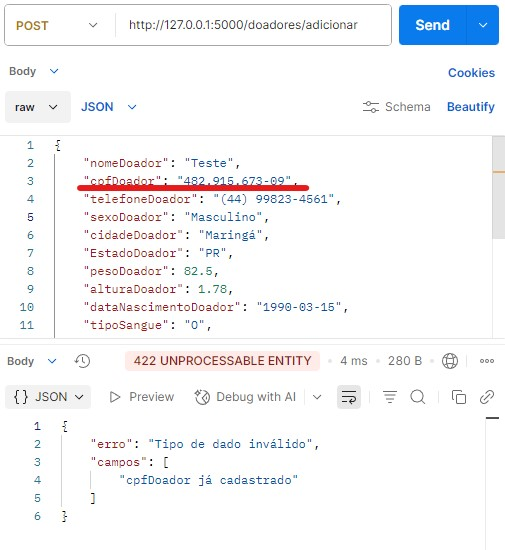
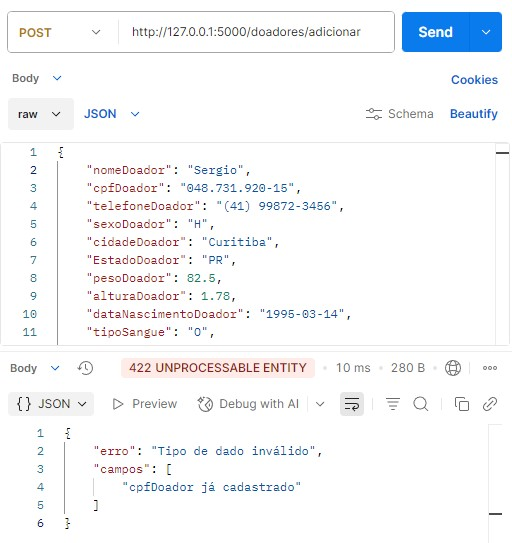
docs: adiciona prints dos testes no postman

diff --git a/raciocinio-algoritmico/docs/prints-semana4.md b/raciocinio-algoritmico/docs/prints-semana4.md
@@ -4,14 +4,54 @@
 
 Alguns prints dos testes realizados no Postman. Não inclui todos os testes para todos os tipos, mas abrange de modo geral o funcionamento do sistema atualmente.
 
-### isinstance() teste
+---
 
-[isinstance() teste](../img/altura-teste.jpg)
+## Rota `/doadores/adicionar`
 
-### CPF repetido teste
+### Regex — nome com números/caracteres especiais
 
-[cpf teste](../img/cpf-repetido.jpg)
+![teste-regex](../img/teste-regex.jpg)
 
-### Regex teste
+### Sexo do doador inválido
 
-[regex teste](../img/regex-nome-teste.jpg)
+![teste-sexoDoador](../img/teste-sexoDoador.jpg)
+
+### Tipagem incorreta nos campos
+
+![tipagem-teste](../img/tipagem-teste.jpg)
+
+### Campos obrigatórios ausentes
+
+![ausencia-teste](../img/ausencia-teste.jpg)
+
+### CPF já cadastrado
+
+![cpf-repetido](../img/cpf-repetido.jpg)
+
+---
+
+## Rota `/bolsas/adicionar`
+
+### Campos obrigatórios ausentes
+
+![ausencia-teste-bolsa](../img/ausencia-teste-bolsa.jpg)
+
+### Tipagem incorreta nos campos
+
+![tipagem-teste-bolsa](../img/tipagem-teste-bolsa.jpg)
+
+### Tipo de sangue inválido
+
+![tipo-sangue](../img/tipo-sangue.jpg)
+
+### Data de coleta em formato incorreto
+
+![data-coleta-teste](../img/data-coleta-teste.jpg)
+
+### Quantidade em ml negativa
+
+![ml-positivo](../img/ml-positivo.jpg)
+
+### Solução conservante não reconhecida
+
+![solucao-teste](../img/solucao-teste.jpg)

diff --git a/raciocinio-algoritmico/README.md b/raciocinio-algoritmico/README.md
@@ -2,7 +2,7 @@
 
 ### 📖 [Documentação de Rotas](docs/routes.md)
 
-### 📖 [Documentação de Rotas - Formato Tabela](docs/routes2.md)
+###  [Documentação de Rotas - Formato Tabela](docs/routes2.md)
 
 ## Changelogs:
 
@@ -51,4 +51,6 @@ Além disso, foram adicionadas funções para tarefas especificas:
 
 Foram criadas tabelas de validações, como solicitado na atividade da semana 4.
 
-### 📖 [Tabela de Validações - Semana 4](docs/tabelas-semana4.md)
+###  [Tabela de Validações - Semana 4](docs/tabelas-semana4.md)
+
+###  [Prints do Postman - Semana 4](docs/prints-semana4.md)
